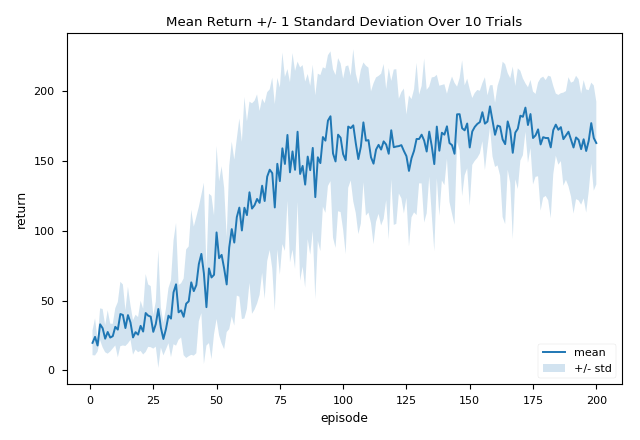
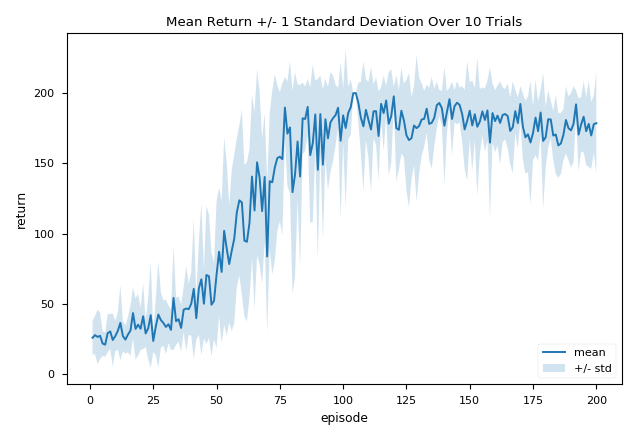
ppo

diff --git a/PPO/ppo_cartpole.py b/PPO/ppo_cartpole.py
@@ -9,7 +9,6 @@ import torch
 from torch import nn
 from torch.nn import functional as F
 from torch.autograd import Variable
-
 plt.style.use('seaborn-paper')
 
 
@@ -39,7 +38,7 @@ class PPO_Critic(nn.Module):
 
 env = gym.make('CartPole-v0')
 
-NUM_EP = 500
+NUM_EP = 200
 NUM_EPOCH = 5
 GAMMA = .99   # discount factor
 N_S = env.observation_space.shape[0]
@@ -50,18 +49,16 @@ ACTOR_LR = 2.5e-4
 CRITIC_LR = 5e-4
 HIDDEN_SIZE = 128
 
+
+# Z filter
 zfilter = ZFilter(N_S)
 
 actor = PPO_Actor(N_S, HIDDEN_SIZE, N_A)
-actor_old = deepcopy(actor)
-
 actor_optim = torch.optim.Adam(actor.parameters(), lr=ACTOR_LR)
 
 critic = PPO_Critic(N_S, HIDDEN_SIZE)
-
-critic_optim = torch.optim.Adam(critic.parameters(), lr=CRITIC_LR)
 huber_loss = nn.SmoothL1Loss(size_average=True)
-
+critic_optim = torch.optim.Adam(critic.parameters(), lr=CRITIC_LR)
 
 _Var = lambda x, dtype: Variable(torch.from_numpy(x).type(dtype))
 
@@ -104,20 +101,17 @@ for i_episode in range(NUM_EP):
             np_a = np.array(traj['a'])
             np_r = np.array(traj['r'])
 
-            # Swap old actor network
-            actor_old.load_state_dict(actor.state_dict())
-
             S_ = _Var(s_, torch.FloatTensor).unsqueeze(0)
             V_ = critic.forward(S_).data.numpy()[0][0]
 
             # Compute ^R_t (estimator for Q(s_t, a_t))
             n_step = []
             _ret = V_
-            for _r, T in zip(reversed(traj['r']), traj['T']):
-                _ret = _r + GAMMA * _ret * T   # truncate the return if ep terminates
+            for _r, _T in zip(reversed(traj['r']), reversed(traj['T'])):
+                _ret = _r + GAMMA * _ret * _T   # truncate the return if ep terminates
                 n_step.append(_ret)
 
-            n_step.reverse()   # in-place reverse
+            n_step.reverse()
             n_step = np.array(n_step)
 
             S = _Var(np_s, torch.FloatTensor)
@@ -127,19 +121,21 @@ for i_episode in range(NUM_EP):
             Adv = _Var(n_step - v, torch.FloatTensor)
 
             Act = _Var(np_a, torch.LongTensor)
-            A_old = actor_old.forward(S).detach().gather(1, Act)
+            A_old = actor.forward(S).detach().gather(1, Act)
 
             for i in range(NUM_EPOCH):
-                V = critic.forward(S)
-                A_new = actor.forward(S).gather(1, Act)
 
                 # Optimize critic
+                V = critic.forward(S)
+
                 critic_loss = huber_loss(V, N_step)
                 critic_optim.zero_grad()
                 critic_loss.backward()
                 critic_optim.step()
 
                 # Construct surrogate objective with epsilon 0.2
+                A_new = actor.forward(S).gather(1, Act)
+
                 ratio = A_new / A_old * Adv
                 clamp_ratio = torch.clamp(A_new / A_old, min=1 - EPS, max=1 + EPS) * Adv
                 surr_obj = torch.min(ratio, clamp_ratio)
